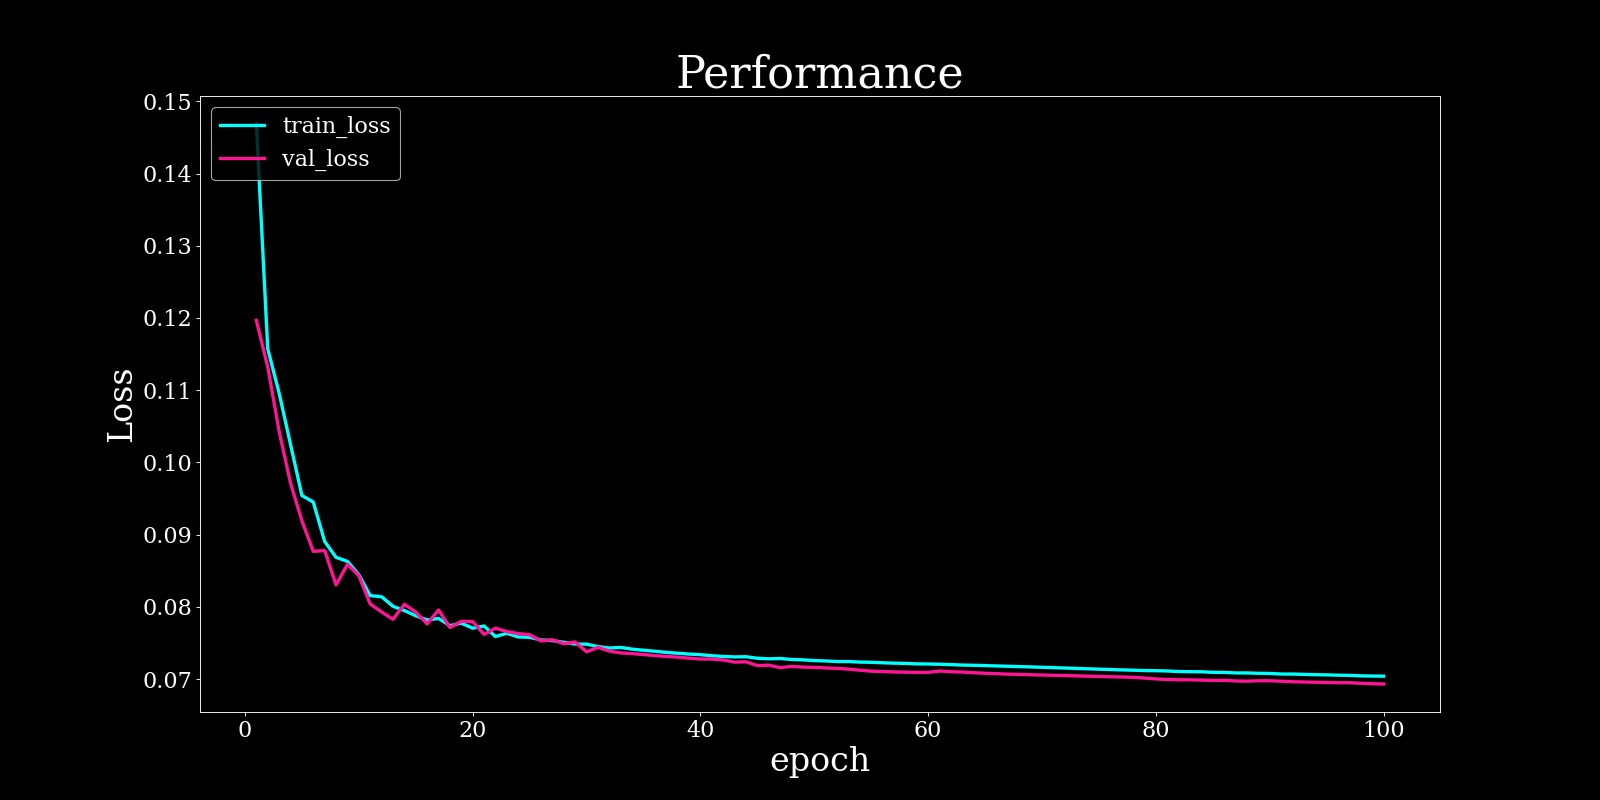
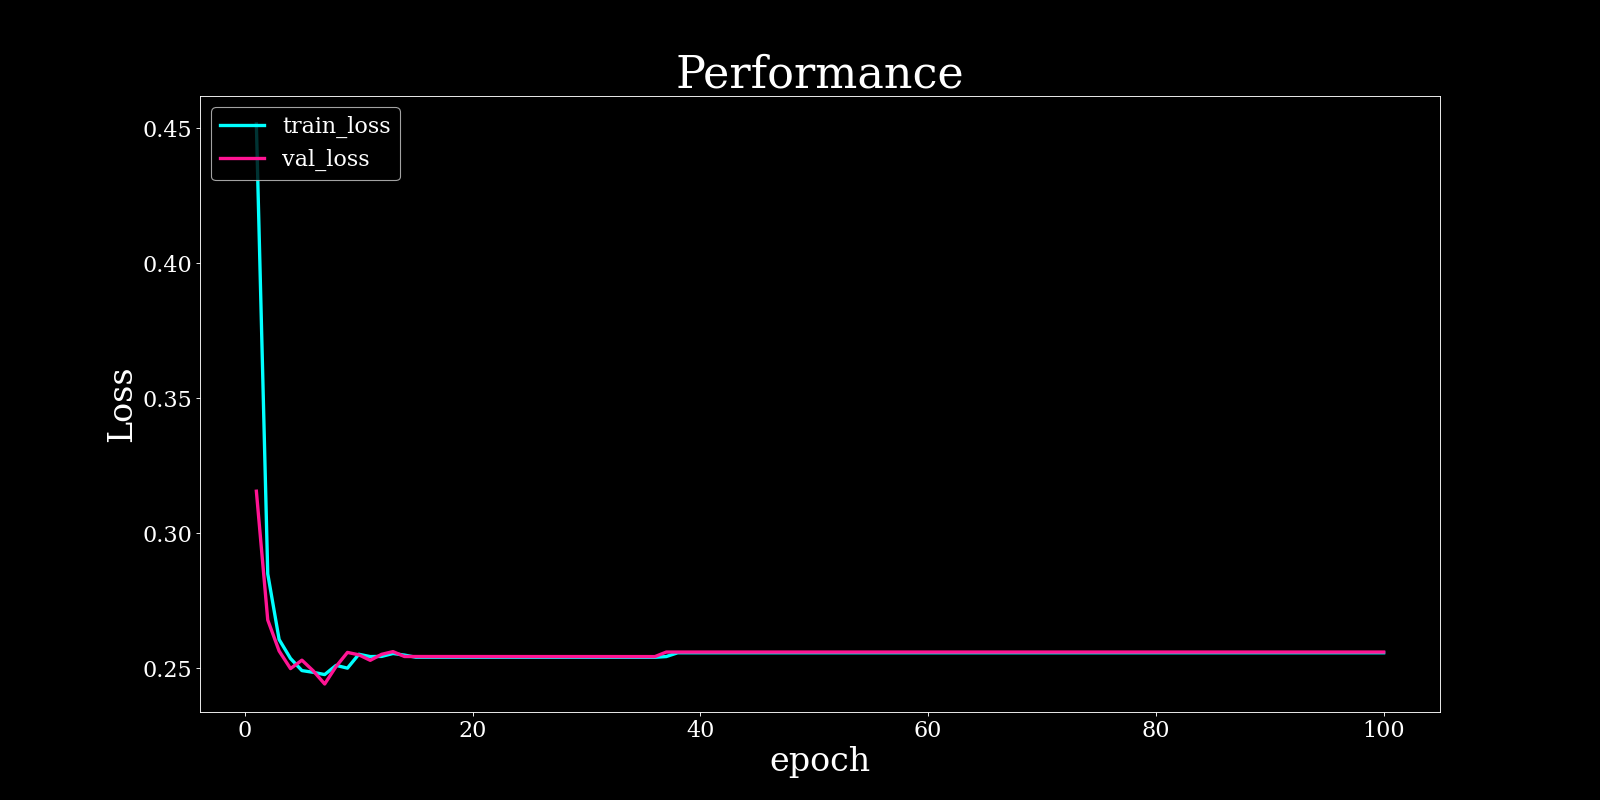
experiments decoder

diff --git a/src/models/unet.py b/src/models/unet.py
@@ -52,22 +52,21 @@ class decoder_block(nn.Module):
     
 
 class build_unet(nn.Module):
-    def __init__(self):
+    def __init__(self, in_c):
         super().__init__()
         """ Encoder """
-        self.e1 = encoder_block(1, 64)
-        self.e2 = encoder_block(64, 128)
-        self.e3 = encoder_block(128, 256)
-        self.e4 = encoder_block(256, 512)
+        self.e1 = encoder_block(in_c, in_c*2)
+        self.e2 = encoder_block(in_c*2, in_c*4)
+        self.e3 = encoder_block(in_c*4, in_c*8)
         """ Bottleneck """
-        self.b = conv_block(512, 1024)
+        self.b = conv_block(in_c*8, in_c*16)
         """ Decoder """
-        self.d1 = decoder_block(1024, 512)
-        self.d2 = decoder_block(512, 256)
-        self.d3 = decoder_block(256, 128)
-        self.d4 = decoder_block(128, 64)
+        self.d1 = decoder_block(in_c*16, in_c*8)
+        self.d2 = decoder_block(in_c*16, in_c*8)
+        self.d3 = decoder_block(in_c*8, in_c*4)
+        self.d4 = decoder_block(in_c*4, in_c*2)
         """ Classifier """
-        self.outputs = nn.Conv2d(64, 1, kernel_size=1, padding=0)
+        self.outputs = nn.Conv2d(in_c*2, in_c, kernel_size=1, padding=0)
 
         self.relu = nn.ReLU()
     def forward(self, inputs):
@@ -75,12 +74,10 @@ class build_unet(nn.Module):
         s1, p1 = self.e1(inputs)
         s2, p2 = self.e2(p1)
         s3, p3 = self.e3(p2)
-        s4, p4 = self.e4(p3)
         """ Bottleneck """
-        b = self.b(p4)
+        b = self.b(p3)
         """ Decoder """
-        d1 = self.d1(b, s4)
-        d2 = self.d2(d1, s3)
+        d2 = self.d2(b, s3)
         d3 = self.d3(d2, s2)
         d4 = self.d4(d3, s1)
         """ Classifier """

diff --git a/src/Visual_utils.py b/src/Visual_utils.py
@@ -176,7 +176,8 @@ def visualize_dec(model, loader, video_name = 'ExpVsPred.mp4'):
 
         x2 = out_Data.to(device=device, dtype=torch.float)
 
-        output = model(x0)
+        output0,output1 = model(x0)
+        output = output1
         
 
         # Copy tensor and send to cpu and detach

diff --git a/src/models/decoders.py b/src/models/decoders.py
@@ -128,7 +128,7 @@ class imageEnhancer(nn.Module):
         super(imageEnhancer,self).__init__(*args, **kwargs)
         self.l1 = DoubleConv(1, 1)
 
-        self.unet = unet()
+        self.unet = unet(in_c=1)
 
         self.l2 = DoubleConv(1, 1)
         self.l3 = DoubleConv(1, 1)
